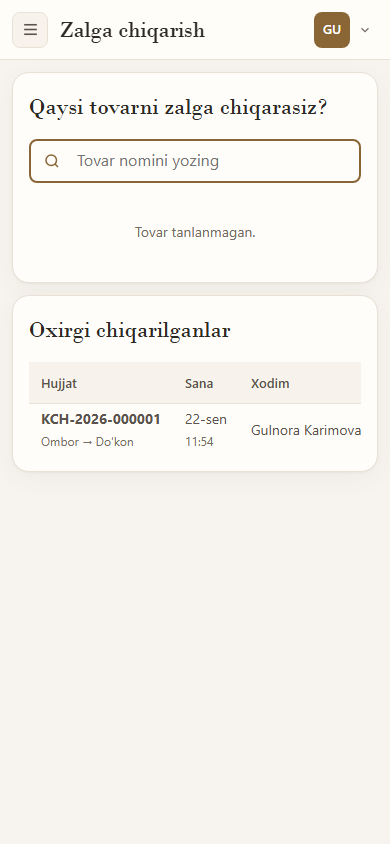
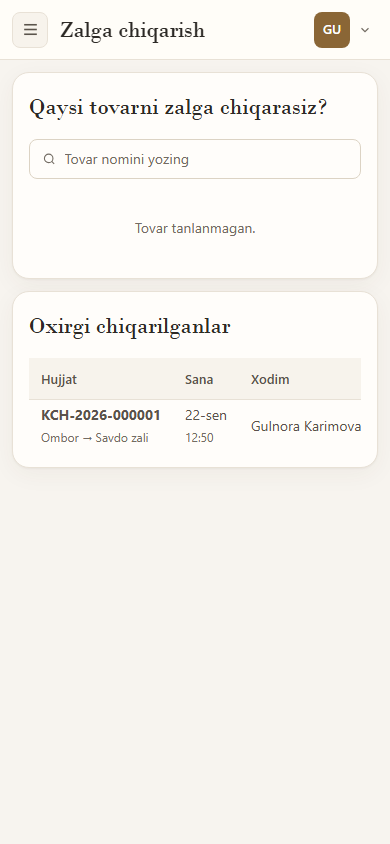
Albom va hujjatlar: rasmli namuna do'koni
Skrinshotlar yangi namuna ma'lumotdan qayta olindi — tovarlar endi
rasmli. Hujjatda rasmning majburiyligi yozildi, README dagi test
sonlari yangilandi.

diff --git a/docs/how-it-works.md b/docs/how-it-works.md
@@ -207,9 +207,13 @@ Ish tartibi:
 
 2. **Tovarni kiriting** (1-qadam). Nomi, brendi, kategoriyasi va
    **qaysi o'lcham, qaysi ranglarda kelgani** belgilanadi; tannarx va
-   ustama shu yerda yoziladi, sotuv narxi o'zi hisoblanadi (rasm
-   ixtiyoriy). Bitta o'lcham va bitta rang belgilansa, jadval bitta
-   katakdan iborat bo'ladi.
+   ustama shu yerda yoziladi, sotuv narxi o'zi hisoblanadi. Bitta
+   o'lcham va bitta rang belgilansa, jadval bitta katakdan iborat
+   bo'ladi.
+
+   **Rasm majburiy.** Rasmsiz tovarni ro'yxatda ham, kassa
+   tanlagichida ham tanib bo'lmaydi — nom hamma ko'ylakda o'xshash.
+   Telefondan suratga olish ham, fayl tanlash ham mumkin.
 
    Shu nomli tovar do'konda allaqachon bo'lsa, ekran ogohlantiradi va
    «Shu tovar yana keldi» tugmasini beradi — bir tovar ikki marta

diff --git a/README.md b/README.md
@@ -93,7 +93,7 @@ Har ilovada bir xil tartib: `models.py` → `services.py` → `serializers.py`
 ## Testlar
 
 ```bash
-cd back && .venv/Scripts/python.exe manage.py test    # 156 ta
+cd back && .venv/Scripts/python.exe manage.py test    # 159 ta
 cd front && npm run test:unit                         # 93 ta
 cd front && npm run build                             # type-check + build
 cd agent && npm test                                  # 85 ta
